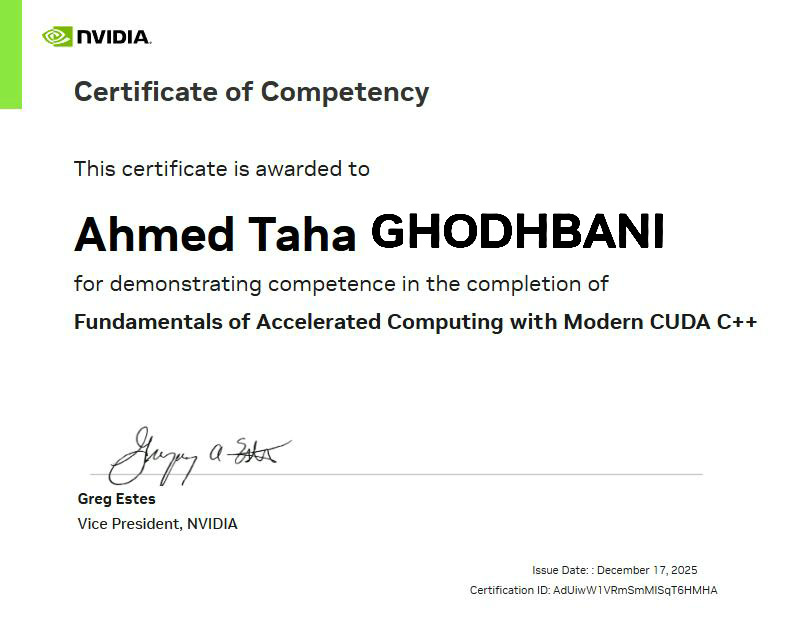
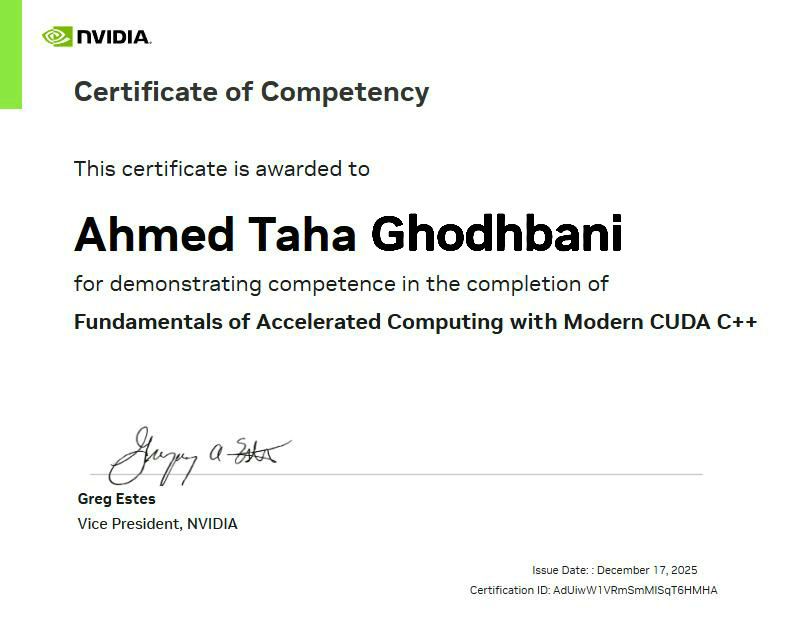
Correct name capitalization for consistency across portfolio content

Changed region(s): [[0.4836, 0.3276, 0.8463, 0.4169]]

diff --git a/index.html b/index.html
@@ -3,9 +3,9 @@
 <head>
   <meta charset="UTF-8">
   <meta name="viewport" content="width=device-width, initial-scale=1.0">
-  <meta name="description" content="Ahmed Taha GHODHBANI is a Software Engineering graduate and Full-Stack Developer experienced in production SaaS and AI-integrated applications.">
+  <meta name="description" content="Ahmed Taha Ghodhbani is a Software Engineering graduate and Full-Stack Developer experienced in production SaaS and AI-integrated applications.">
   <meta name="theme-color" content="#09090b">
-  <title>Ahmed Taha GHODHBANI | Software Engineer &amp; Full-Stack Developer</title>
+  <title>Ahmed Taha Ghodhbani | Software Engineer &amp; Full-Stack Developer</title>
   <link rel="canonical" href="https://ahmedgtaha.github.io/My-Portfolio/">
   
   <link rel="preconnect" href="https://fonts.googleapis.com">
@@ -1331,9 +1331,9 @@
     <div class="container nav">
       <a class="logo" href="#top" aria-label="Ahmed Taha Home">
         <span class="logo-avatar-frame">
-          <img class="logo-avatar" src="images/profile/ahmed-taha-headshot.webp" width="38" height="38" alt="Ahmed Taha GHODHBANI">
+          <img class="logo-avatar" src="images/profile/ahmed-taha-headshot.webp" width="38" height="38" alt="Ahmed Taha Ghodhbani">
         </span>
-        <span>Ahmed Taha GHODHBANI</span>
+        <span>Ahmed Taha Ghodhbani</span>
       </a>
 
       <nav class="nav-menu" id="navMenu" aria-label="Primary Site Navigation">
@@ -1385,12 +1385,12 @@
             <div class="card-header-title">Profile</div>
           </div>
           <div class="hero-portrait">
-            <img src="images/profile/ahmed-taha-headshot.webp" width="1254" height="1254" alt="Ahmed Taha GHODHBANI" fetchpriority="high">
+            <img src="images/profile/ahmed-taha-headshot.webp" width="1254" height="1254" alt="Ahmed Taha Ghodhbani" fetchpriority="high">
           </div>
           <ul class="info-list">
             <li class="info-item">
               <span class="info-label">Developer</span>
-              <span class="info-value">Ahmed Taha GHODHBANI</span>
+              <span class="info-value">Ahmed Taha Ghodhbani</span>
             </li>
             <li class="info-item">
               <span class="info-label">Education</span>
@@ -1742,7 +1742,7 @@
 
   <footer class="footer">
     <div class="container footer-flex">
-      <span>2026 Ahmed Taha GHODHBANI</span>
+      <span>2026 Ahmed Taha Ghodhbani</span>
       <span>Riffa, Bahrain | Software Engineer &amp; Full-Stack Developer</span>
     </div>
   </footer>
@@ -1866,7 +1866,7 @@
           title: 'Bachelor of Science in Software Engineering',
           subtitle: 'University of Bahrain',
           images: [
-            { src: 'images/education-credentials/university-of-bahrain-degree.jpg', alt: 'University of Bahrain Bachelor of Science in Software Engineering degree awarded to Ahmed Taha GHODHBANI' }
+            { src: 'images/education-credentials/university-of-bahrain-degree.jpg', alt: 'University of Bahrain Bachelor of Science in Software Engineering degree awarded to Ahmed Taha Ghodhbani' }
           ]
         },
         nvidiaCertificate: {
@@ -1875,7 +1875,7 @@
           title: 'Fundamentals of Accelerated Computing with Modern CUDA C++',
           subtitle: 'NVIDIA · Issued December 17, 2025',
           images: [
-            { src: 'images/education-credentials/nvidia.jpg', alt: 'NVIDIA Fundamentals of Accelerated Computing with Modern CUDA C++ certificate awarded to Ahmed Taha GHODHBANI' }
+            { src: 'images/education-credentials/nvidia.jpg', alt: 'NVIDIA Fundamentals of Accelerated Computing with Modern CUDA C++ certificate awarded to Ahmed Taha Ghodhbani' }
           ]
         },
         dartCertificate: {
@@ -1884,7 +1884,7 @@
           title: 'Getting Started with Flutter & Dart',
           subtitle: 'Packt and Coursera · Issued October 1, 2025',
           images: [
-            { src: 'images/education-credentials/dart.jpg', alt: 'Packt and Coursera Getting Started with Flutter and Dart certificate awarded to Ahmed GHODHBANI' }
+            { src: 'images/education-credentials/dart.jpg', alt: 'Packt and Coursera Getting Started with Flutter and Dart certificate awarded to Ahmed Ghodhbani' }
           ]
         },
         mpiCertificate: {
@@ -1893,7 +1893,7 @@
           title: 'Parallel Computing with MPI',
           subtitle: 'University of Colorado Boulder and Coursera · Issued November 17, 2025',
           images: [
-            { src: 'images/education-credentials/mpi.jpg', alt: 'University of Colorado Boulder and Coursera Parallel Computing with MPI certificate awarded to Ahmed GHODHBANI' }
+            { src: 'images/education-credentials/mpi.jpg', alt: 'University of Colorado Boulder and Coursera Parallel Computing with MPI certificate awarded to Ahmed Ghodhbani' }
           ]
         }
       };
